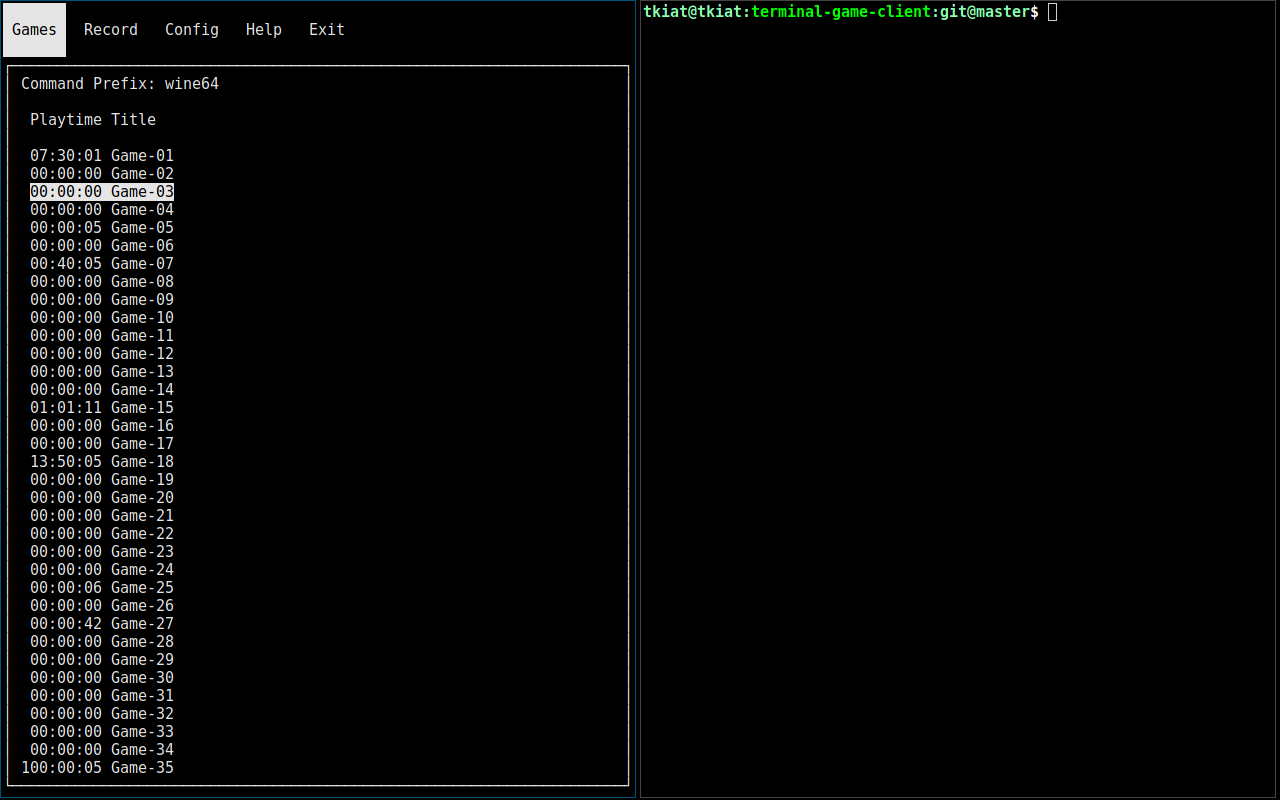
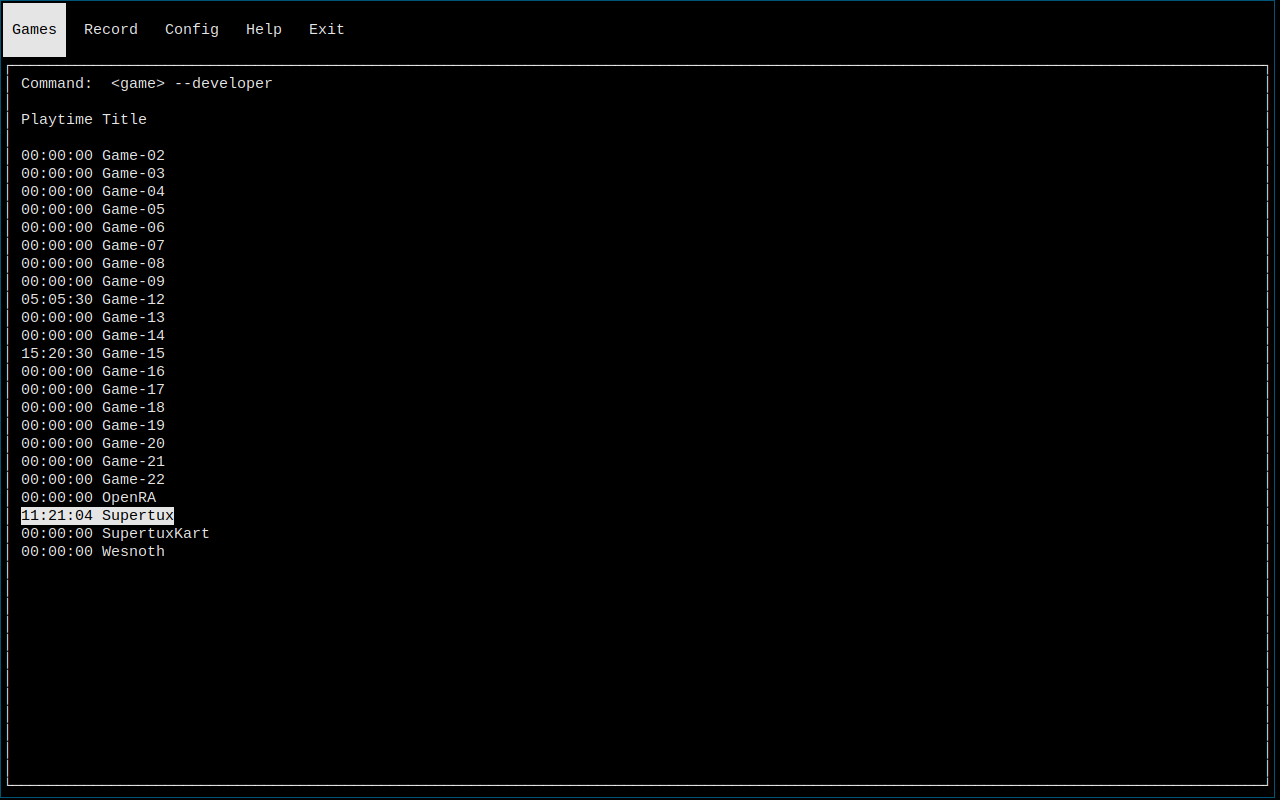
Enable both prefix and suffix and update screenshot

diff --git a/terminal_game_client.py b/terminal_game_client.py
@@ -46,7 +46,7 @@ def play_game_and_record_time(row, cmd):
     '''Execute game and then record playtime thereafter.'''
     start = datetime.now()
     subprocess.Popen(cmd, stderr=subprocess.PIPE, \
-            stdout=subprocess.DEVNULL).wait()
+            stdout=subprocess.DEVNULL, shell=True).wait()
     playtime_sec = math.floor((datetime.now() - start).total_seconds())
     # update playtime
     GAMES[row]['playtime'] = \
@@ -54,11 +54,11 @@ def play_game_and_record_time(row, cmd):
     RECORD_JSON[GAMES[row]['title']] = GAMES[row]['playtime']
     Path(RECORD_PATH).write_text(json.dumps(RECORD_JSON, sort_keys=True, indent=2))
 
-def print_game_entries(window, cmd_game_prefix, row):
+def print_game_entries(window, cmd, row):
     '''Print all games entries.'''
     height, _ = window.getmaxyx()
     offset_x = MAX_PLAYTIME_DIGIT - len('hh:mm:ss')
-    window.addstr(1, 2, 'Command Prefix: ' + cmd_game_prefix)
+    window.addstr(1, 2, 'Command: ' + cmd)
     window.addstr(3, 2 + offset_x, 'Playtime Title')
     linenum = 5
 
@@ -82,13 +82,13 @@ def sec_to_hhmmss(sec):
     hour, minute = divmod(minute, 60)
     return str(hour).zfill(2) + ":" + str(minute).zfill(2) + ":" + str(second).zfill(2)
 
-def set_cmd_game_prefix():
+def set_cmd_prefix_or_suffix():
     '''Enable textbox where user can type prefix command like wine64'''
-    win = curses.newwin(1, 40, 4, 18)
+    win = curses.newwin(1, 40, 4, 11)
     textbox = curses.textpad.Textbox(win)
-    prefix = textbox.edit()
+    text = textbox.edit()
     del win
-    return prefix
+    return text.strip()
 
 def clamp(number, range_min, range_max):
     '''Limit a number to a range.'''
@@ -102,7 +102,8 @@ def main(stdscr):
     col_cur = 0
     row_game_cur = 0
     main_box = draw_main_box(stdscr)
-    cmd_game_prefix = ""
+    cmd_prefix = ""
+    cmd_suffix = ""
     while 1:
         stdscr.keypad(1)
         stdscr.refresh()
@@ -110,7 +111,8 @@ def main(stdscr):
         main_box.clear()
         main_box.border(0)
         if MENU[col_cur] == "Games":
-            print_game_entries(main_box, cmd_game_prefix, row_game_cur)
+            cmd_display = cmd_prefix + " <game> " + cmd_suffix
+            print_game_entries(main_box, cmd_display, row_game_cur)
         elif MENU[col_cur] == "Record" or MENU[col_cur] == "Config" or MENU[col_cur] == "Help":
             main_box.addstr(1, 2, "Press ENTER to open file in " + str(EDITOR) + ".")
         main_box.refresh()
@@ -121,8 +123,8 @@ def main(stdscr):
             break
         if key == 10 and MENU[col_cur] == "Games": # 10 = ENTER
             realpath = os.path.realpath(GAMES[row_game_cur]['path'])
-            command = cmd_game_prefix + realpath
-            play_game_and_record_time(row_game_cur, command)
+            cmd = cmd_prefix + " " + realpath + " " + cmd_suffix
+            play_game_and_record_time(row_game_cur, cmd.strip())
         elif key == 10 and MENU[col_cur] == "Exit":
             break
         elif key == 10:
@@ -134,8 +136,10 @@ def main(stdscr):
             col_cur = clamp(col_cur + COL_VECTOR_MAP[key], 0, len(MENU) - 1)
         elif key in ROW_VECTOR_MAP and GAMES:
             row_game_cur = clamp(row_game_cur + ROW_VECTOR_MAP[key], 0, len(GAMES) - 1)
-        elif key == ord('e'):
-            cmd_game_prefix = set_cmd_game_prefix()
+        elif key == ord('p'):
+            cmd_prefix = set_cmd_prefix_or_suffix()
+        elif key == ord('s'):
+            cmd_suffix = set_cmd_prefix_or_suffix()
 # --------------------------------------------------------------------------------------------------
 # declare paths
 FOLDER_PATH = os.path.expanduser("~") + "/.local/share/terminal-game-client/"
@@ -157,14 +161,19 @@ create_file_if_not_exist(RECORD_PATH, """{}
 create_file_if_not_exist(HELP_PATH, """How to use
 - Add Game: Make a folder entry in the configuration file.
 This folder must contain symlinks to the actual game executables.
+
 - Key Bindings: h (left), j (down), k (up), l (right), CTRL+d (down 20 lines),
 CTRL+u (up 20 lines), ENTER (perform action).
+
 - Configuration File: You can change game directories and editor in
 ~/.local/share/terminal-game-client/config.conf.
 You should restart the application after changing it.
+
 - Record File: You should restart the application after changing it.
-- Command Prefix: Some games does not run without some prefixes like wine64.
-Enter that in 'Command Prefix' section on the "Games" tab (press e, type command, then press ENTER).
+
+- Command: You might want to add prefix and/or suffix to execute the game
+For example, wine64 mygame.sh --debug-mode
+On the "Games" page, type p to add a new prefix, type s to add a new suffix.
 """)
 # read configs
 CONFIG = configparser.ConfigParser()

diff --git a/README.md b/README.md
@@ -16,7 +16,7 @@
 - **Key Bindings**: h (left), j (down), k (up), l (right), CTRL+d (down 20 lines), CTRL+u (up 20 lines), ENTER (perform action).
 - **Configuration File**: You can change game directories and editor in ~/.local/share/terminal-game-client/config.conf.
 - **Record File**: You should restart the application after changing it.
-- **Prefix Command**: Some games does not run without some prefixes like wine64. Enter that in 'Command Prefix' section on the "Games" tab (press e, type command, then press ENTER).
+- **Command**: You might want to add prefix and/or suffix to execute the game, for example, wine64 mygame.sh --debug-mode. On the "Games" page, type p to add a new prefix and type s to add a new suffix.
 
 ### Screenshots
 
